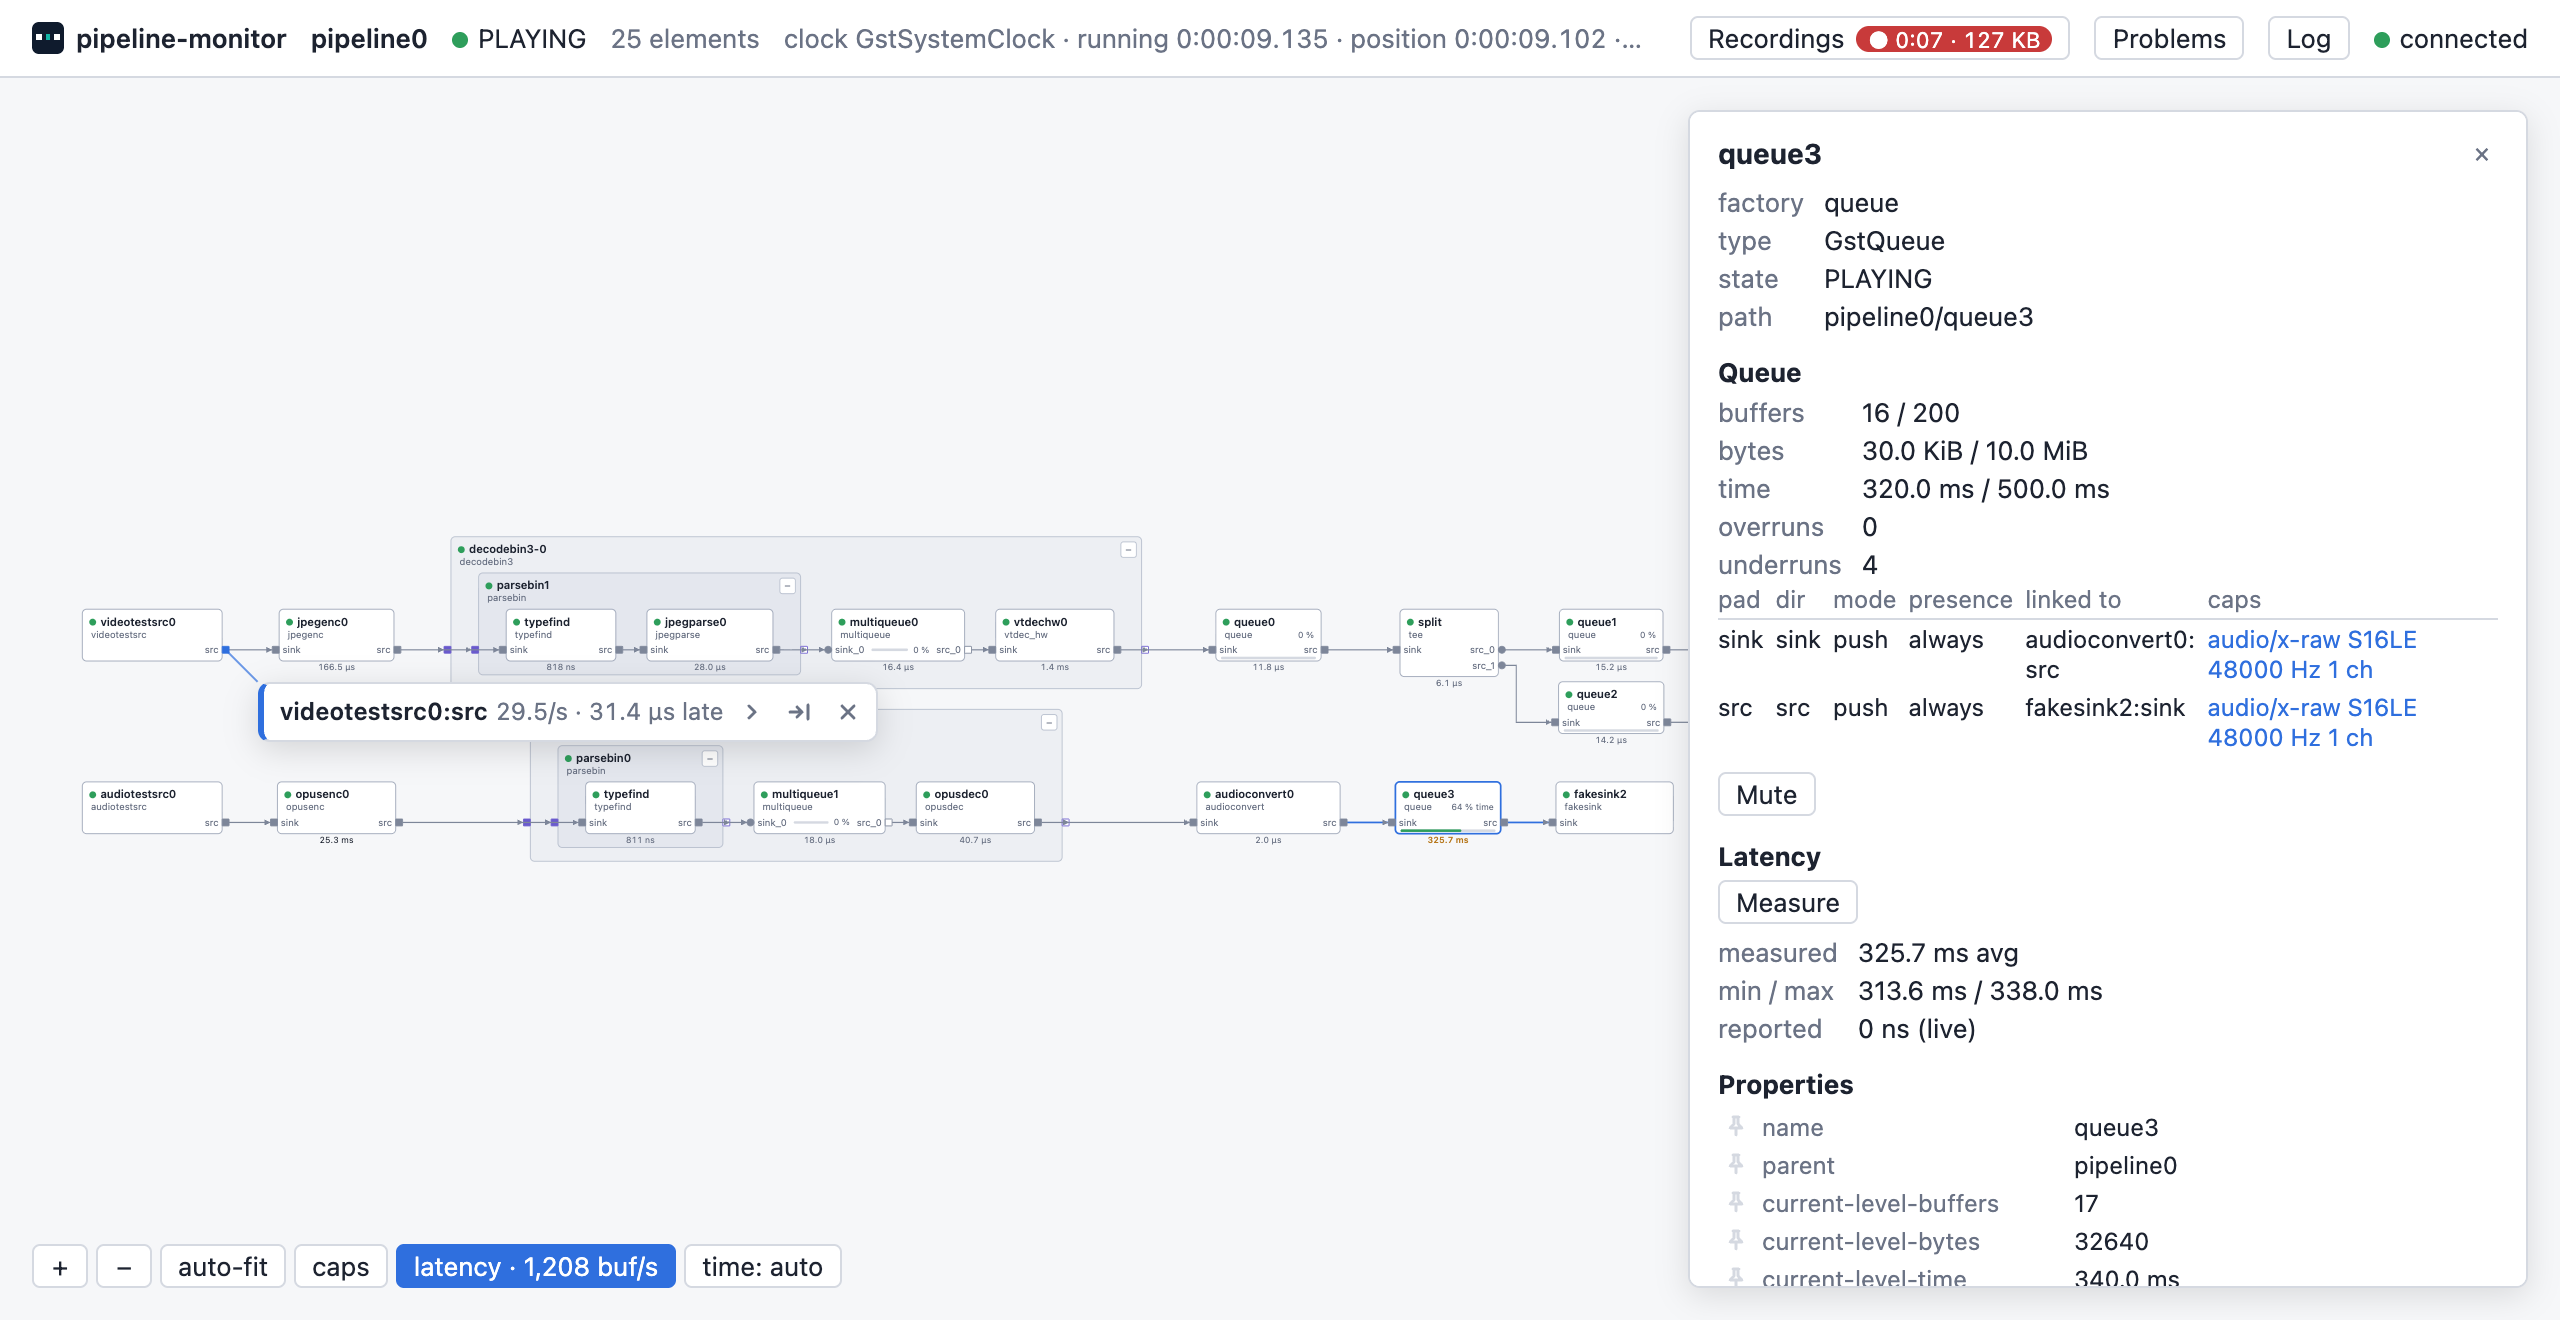
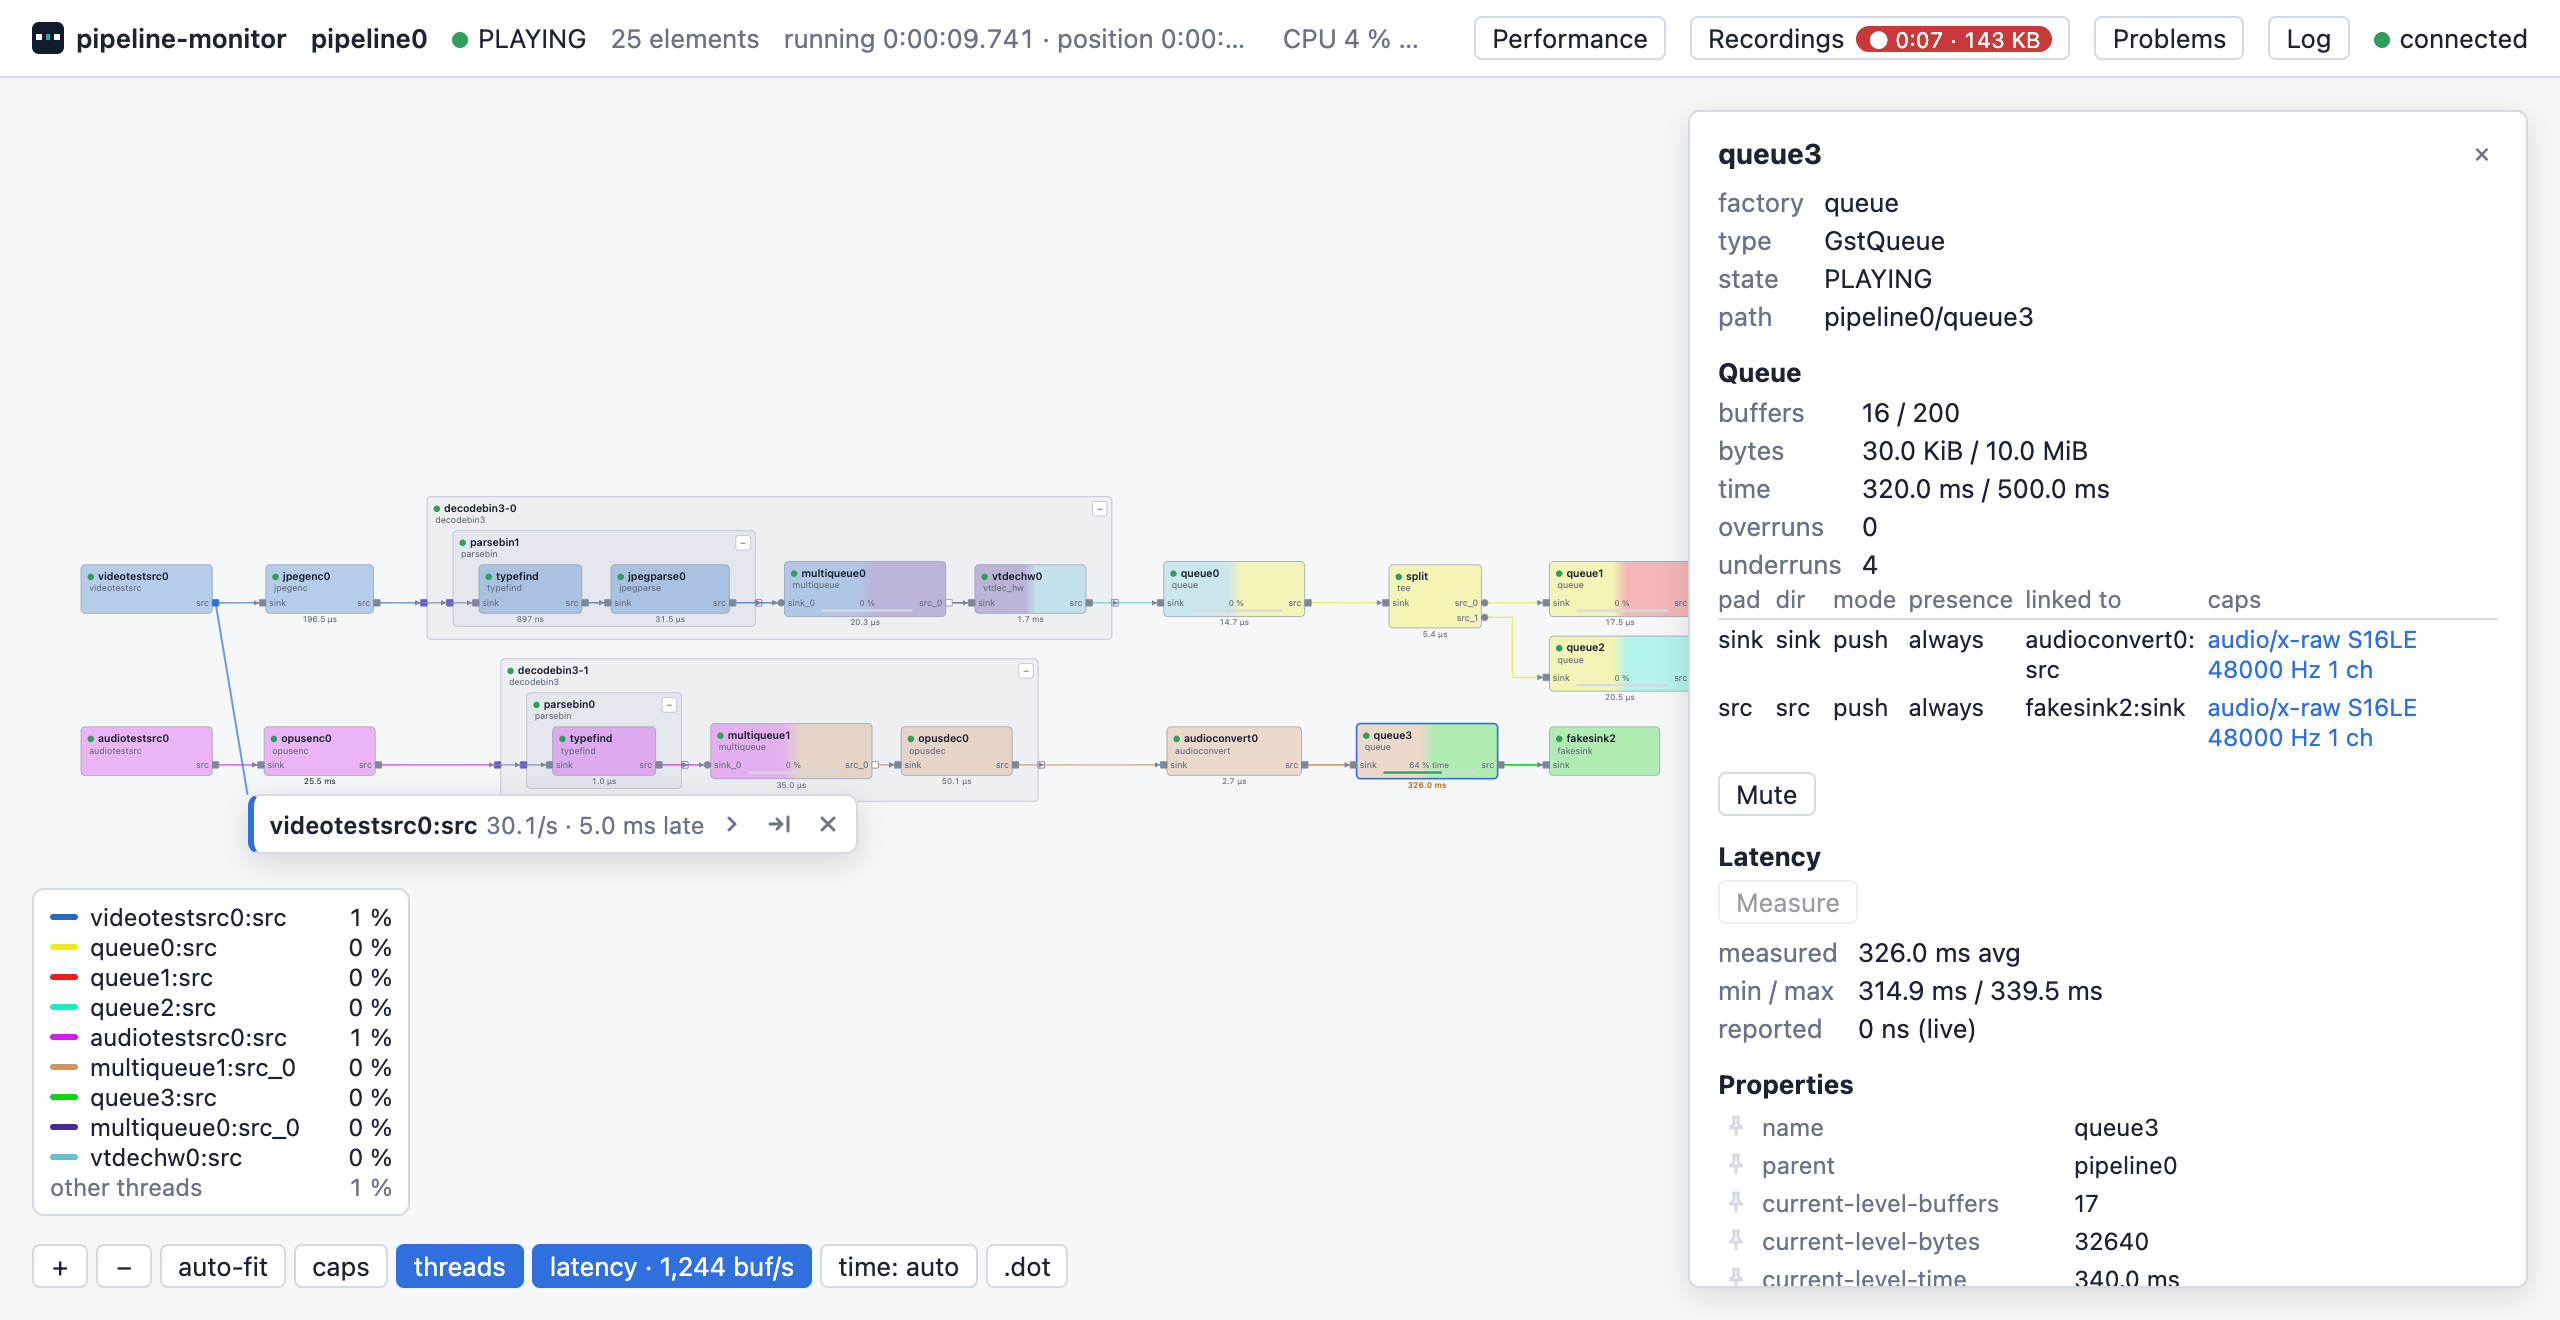
Update the README for 0.12

diff --git a/tests/test_ui.py b/tests/test_ui.py
@@ -3390,10 +3390,20 @@ def screenshot(browser, url, path):
                         f"/ms avg/.test({section}?.textContent)")
     # Smaller and to the left, so the queue is not under the panel.
     browser.click("#zoom-out")
-    for kind, x in (("mousePressed", 700), ("mouseMoved", 620),
-                    ("mouseMoved", 590), ("mouseReleased", 590)):
-        browser.call("Input.dispatchMouseEvent", type=kind, x=x, y=120,
+    for kind, x, y in (("mousePressed", 700, 120), ("mouseMoved", 620, 110),
+                       ("mouseMoved", 590, 95), ("mouseReleased", 590, 95)):
+        browser.call("Input.dispatchMouseEvent", type=kind, x=x, y=y,
                      button="left", buttons=1, clickCount=1)
+    # The card moved down off the bins, still at its pad (under 100 px).
+    x, y = browser.eval("(r => [r.left + 30, r.top + r.height / 2])("
+                        "document.querySelector('.pin-card .pin-title')"
+                        ".getBoundingClientRect())")
+    for kind, dy in (("mousePressed", 0), ("mouseMoved", 40),
+                     ("mouseMoved", 80), ("mouseReleased", 80)):
+        browser.call("Input.dispatchMouseEvent", type=kind, x=x, y=y + dy,
+                     button="left", buttons=1, clickCount=1)
+    # The threads view, its legend below the audio branch.
+    browser.click("#threads")
     time.sleep(4)
     browser.screenshot(path)
 

diff --git a/README.md b/README.md
@@ -2,7 +2,7 @@
 
 See a running GStreamer pipeline live in your browser.
 
-![pipeline-monitor recording a pipeline: latency under every element, a pinned pad's live values, and the audio queue's level, latency and properties](.github/screenshot.png)
+![pipeline-monitor recording a pipeline in the threads view: each element in the colour of the thread that runs it, latency under every element, a pinned pad's live values, and the audio queue's level, latency and properties](.github/screenshot.png)
 
 Short videos: [Fix your GStreamer pipeline](https://www.youtube.com/playlist?list=PLHYOr70akpmI)
 on YouTube, one problem per episode.
@@ -26,10 +26,14 @@ variable, without changing your application, and open http://127.0.0.1:8765/.
   video), bytes/s, gaps between buffers, delay against the clock, timestamps,
   flags and segment; cards follow their pad or can be dragged off and kept
   on screen. Probes run only on pinned pads
-- Queue fill: a bar on every queue and queue2, and on each stream of a
-  multiqueue, shows how full it is against its most blocking limit; hover
-  for buffers, bytes and time against their limits, overruns, underruns
-  and buffering
+- Queue fill: on every queue and queue2, and on each stream of a
+  multiqueue, a bar and a number show how full it is and the limit it is
+  nearest (buffers, bytes or time); hover for all three against their
+  limits, overruns, underruns and buffering
+- Threads: one button colours every element and link by the thread that
+  runs it, so you see where a queue hands over to a new thread; CPU per
+  thread, the program's CPU and memory in the header, and a Performance
+  panel with the last minute of each
 - Pipeline clock and times in the header: clock and its provider, running
   time, position and duration, latency
 - Element properties in the details panel, with values changed from the
@@ -43,7 +47,10 @@ variable, without changing your application, and open http://127.0.0.1:8765/.
 - Pipeline issue detection: data stopped or blocked, failed format
   negotiation and links, a pipeline stuck in a state (with sinks that have
   not prerolled), missing decoders, full or dropping queues, sinks dropping
-  late buffers and sources sending nothing
+  late buffers, sources sending nothing, a thread using a whole core where
+  the pipeline must keep up, and elements still alive after leaving their
+  pipeline
+- GStreamer's own `.dot` file of a running pipeline, saved from the page
 - Element details, collapsible bins, light and dark theme
 - Local only: listens on 127.0.0.1 and loads nothing from the internet
 
@@ -156,8 +163,10 @@ Then open the address it prints, by default http://127.0.0.1:8765/.
   `GST_TRACERS="pipeline-monitor(log=false)"` turns that off (your application
   still receives them as usual). Options can be combined, e.g.
   `pipeline-monitor(port=9000,log=false)`.
-- Data flow tracking for issue detection costs about 60 ns per buffer push;
-  `pipeline-monitor(flow=false)` turns it off.
+- Data flow tracking (where data stopped, which thread runs each element)
+  costs about 10 ns per push, on top of about 90 ns that GStreamer's
+  tracing adds once any tracer is on; `pipeline-monitor(flow=false)` turns
+  it off.
 - For a program that fails or ends at once, `pipeline-monitor(wait=true)`
   holds it at start until the page is open. When the program ends, the page
   keeps its last state (graph, problems, errors and warnings) and connects

diff --git a/docs/protocol.md b/docs/protocol.md
@@ -201,7 +201,11 @@ the task has ended.
 - `severity`: `error`, `warning`, `info`. Most severe first.
 - `id`: the kind and the place, the same in every run. Kinds: `flow`,
   `blocked`, `stuck`, `starved`, `link`, `missing`, `silent`, `full`,
-  `dropping`, `late`.
+  `dropping`, `late`; since 0.12 `busy` (a streaming thread at 90 % of a
+  core or more for 5 s, where the pipeline keeps time; at the first element
+  it runs) and `leftovers` (elements taken out of a pipeline and still
+  alive after 30 s, at that pipeline; a warning when their number keeps
+  growing).
 - `text` says what was found, `hint` what it means; both state only what
   was observed.
 - `count`, `first`, `last` when the problem repeats.
@@ -429,6 +433,7 @@ Sent over the WebSocket as JSON text, at most 64 KiB:
 | `GET /api/recordings` | `recordings` |
 | `GET /api/recordings/<name>` | the recording file (JSON Lines), as an attachment; 404 if there is none |
 | `GET /api/opened` | the file given to `pipeline-monitor open`; 404 if there is none |
+| `GET /api/dot?pipeline=ID` | GStreamer's own `.dot` of that pipeline (or any bin), as an attachment named `<name>_<STATE>_<YYYYMMDD-HHMMSS>.dot`; 404 if there is none (since 0.12) |
 | `/ws` | the WebSocket |
 
 JSON answers are sent with `Cache-Control: no-store`.
